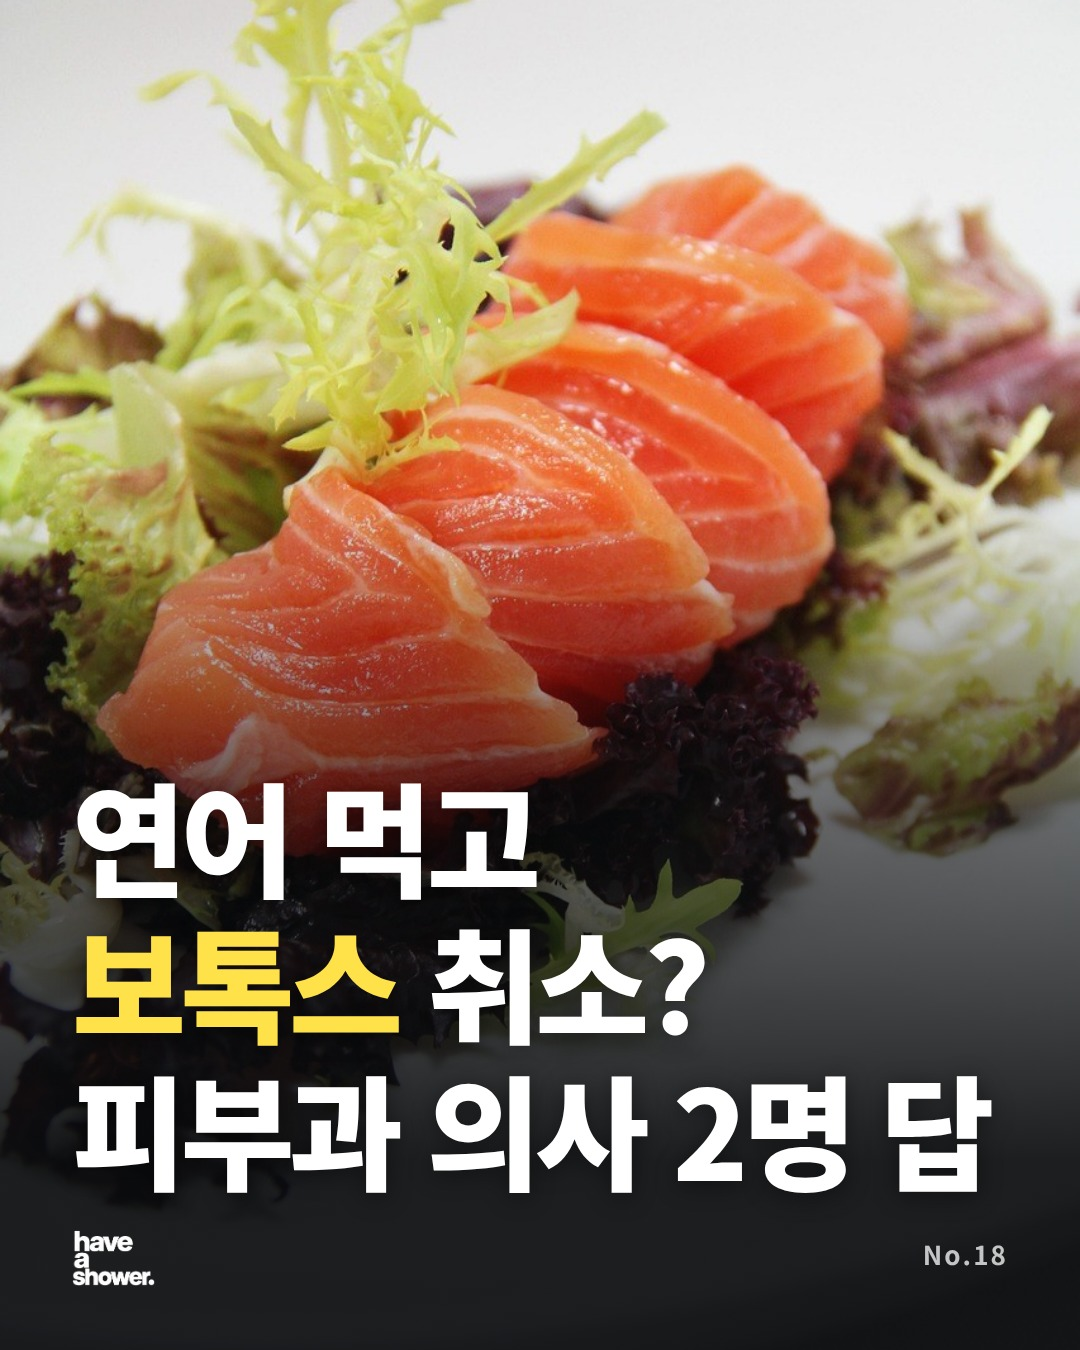
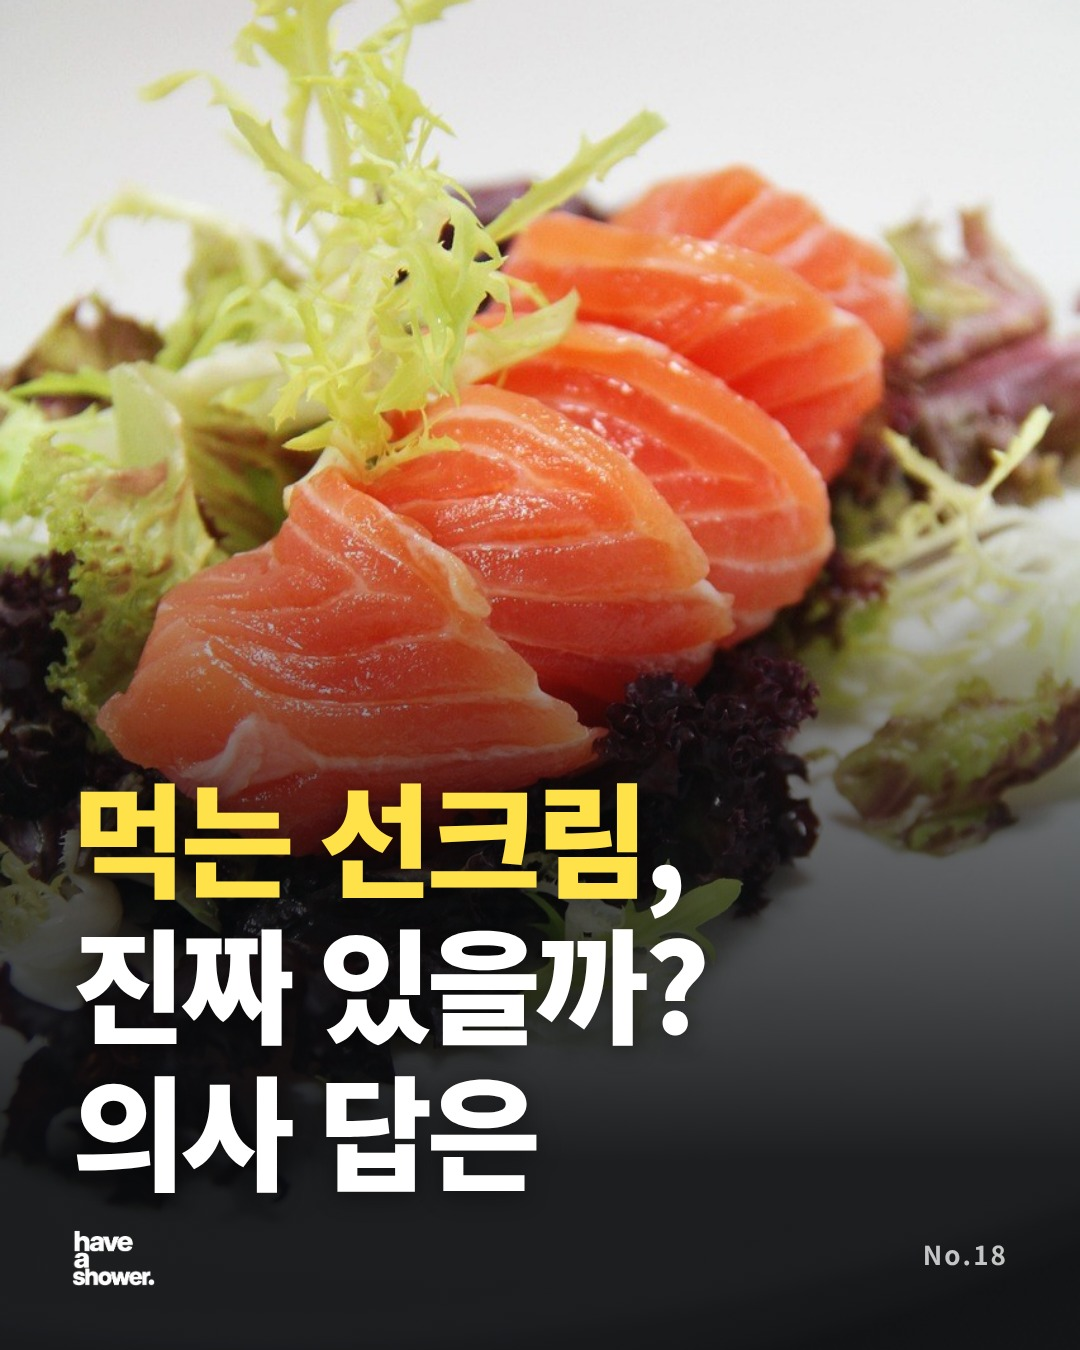
No.18 표지 3안으로 변경
Claude-Session: https://claude.ai/code/session_01MYgG3jS1SB8BrZijjeArEf

Changed region(s): [[0.0611, 0.56, 0.7944, 0.9022], [0.825, 0.7778, 0.9167, 0.9022]]

diff --git a/cardnews/project/P18-1-Cover.dc.html b/cardnews/project/P18-1-Cover.dc.html
@@ -17,9 +17,9 @@ a{color:inherit}
 <div style="position: relative; width: 1080px; height: 1350px; overflow: hidden; background: #111315; color: #FFFFFF; font-family: 'Noto Sans KR', 'Apple SD Gothic Neo', sans-serif; word-break: keep-all">
 <img src="/_blob/89ff3c819832d466d9e2b9c99b16a8e7" alt="" style="position: absolute; left: 0; top: 0; width: 1080px; height: 1350px; object-fit: cover; object-position: 50% 35%; display: block">
 <div style="position: absolute; left: 0; right: 0; bottom: 0; height: 860px; background: linear-gradient(180deg, rgba(10,12,14,0) 0%, rgba(10,12,14,0.6) 38%, rgba(10,12,14,0.92) 78%)"></div>
-<h1 style="position: absolute; left: 72px; right: 72px; bottom: 150px; margin: 0; font-family: 'Noto Sans KR', 'Apple SD Gothic Neo', sans-serif; font-size: 124px; font-weight: 900; line-height: 1.18; letter-spacing: -0.045em; color: #FFFFFF; text-shadow: 0 4px 24px rgba(0,0,0,0.45); white-space: pre-line">연어 먹고
-<span style="color: #FFE14A">보톡스</span> 취소?
-피부과 의사 2명 답</h1>
+<h1 style="position: absolute; left: 72px; right: 72px; bottom: 150px; margin: 0; font-family: 'Noto Sans KR', 'Apple SD Gothic Neo', sans-serif; font-size: 124px; font-weight: 900; line-height: 1.18; letter-spacing: -0.045em; color: #FFFFFF; text-shadow: 0 4px 24px rgba(0,0,0,0.45); white-space: pre-line"><span style="color: #FFE14A">먹는 선크림</span>,
+진짜 있을까?
+의사 답은</h1>
 <img src="/_blob/11234708ce8dd667817c59a15d245c81" alt="have a shower 로고" style="position: absolute; left: 72px; bottom: 64px; height: 56px; display: block">
 <div style="position: absolute; right: 72px; bottom: 78px; font-size: 26px; font-weight: 700; letter-spacing: 0.08em; color: rgba(255,255,255,0.75)">No.18</div>
 </div>

diff --git a/briefs/2026-11-12.md b/briefs/2026-11-12.md
@@ -130,4 +130,5 @@
 - 캔버스에 P17·P18 세트 추가(26100·27900행). 원본 `cardnews/project/P17-*`, `P18-*`, 생성 스크립트 `cardnews/make_p17_p18.py`.
 - 사진: No.17 원다컴퍼니 보도자료·공식 블로그·스마트스토어 이미지, No.18 Pixabay(Sookie_cfw 연어, romjanaly·StockSnap 토스트). 원본·출처는 `briefs/images/2026-11-12/credits.txt`.
 - No.17 가격(바디워시 650ml 16,800원·핸드워시 300ml 14,800원)은 원다컴퍼니 공식 블로그(9/25)의 스마트스토어 가격 → 게시 전 스토어에서 재확인 필요.
+- No.18 표지: 대표가 3안 선택 → "먹는 선크림, / 진짜 있을까? / 의사 답은"(강조: 먹는 선크림). 캡션 첫 줄도 맞춰 바꿈.
 - 어제 실패한 No.16(`posts/no17_cold_shower`)은 아직 미게시.
